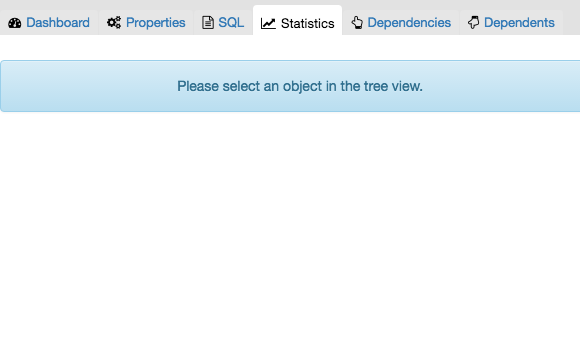
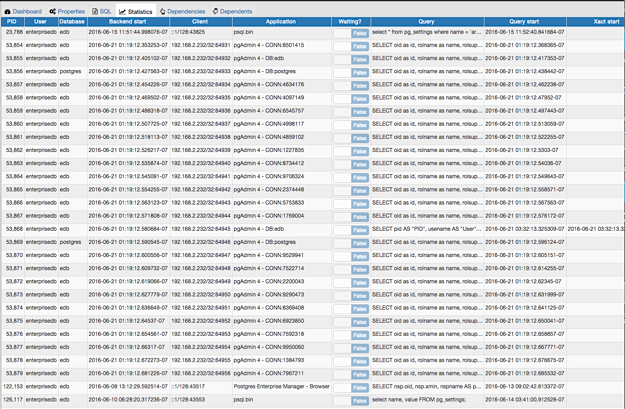
More doc restructuring.

diff --git a/docs/en_US/pgadmin_tabbed_browser.rst b/docs/en_US/pgadmin_tabbed_browser.rst
@@ -17,20 +17,50 @@ The *Dashboard* tab provides a graphical analysis of the usage statistics for th
 * The *Tuples In* graph displays the number of tuples inserted, updated, and deleted into the managed server or database.
 * The *Tuples out* graph displays the number of tuples fetched and returned into the managed server or database.
 * The *Block I/O* graph displays the number of transactions processed by the managed server or database.
-* The *Server activity* graph displays information about sessions, locks, prepared transactions and configuration. The information is presented in context-sensitive tables.
+
+The *Server activity* panel displays information about sessions, locks, prepared transactions and configuration. The information is presented in context-sensitive tables.
+
+Click the *Properties* tab to continue.
+
+.. image:: images/main_properties_table.png
+
+Review properties on expandable windows specific to the *Object* selected. If multiple boxes are displayed, you can click the arrow to the left on the blue bar at the top of each box:
+
+ * Point the arrow to the right to contract the box.
+ * Point the arrow down to expand the window. 
+
+.. image:: images/main_properties_edit.png 
+
+Click the *Edit* icon in the toolbar under the browser tabs to launch a dialog. 
+
+.. image:: images/main_properties_icons.png
+
+If you change properties in the opened dialog, save your work. The *Properties* tab updates to show recent modifications. 
+
+Click the *SQL* tab to continue.
+
+.. image:: images/main_sql.png
+
+The SQL pane on the *SQL* tab contains an SQL script that creates the highlighted object, and if applicable, a (commented out) SQL statement that will *DROP* the selected object. You can copy the SQL statements to an editor of your choice using cut & paste shortcuts.
 
 Click the *Statistics* tab to continue.
 
 .. image:: images/main_statistics.png
 
-The *Statistics* tab displays the statistics gathered for each database on the current server. Click a column heading to sort the table by the data displayed in the column; click again to reverse the sort order.  
+The *Statistics* tab displays the statistics gathered for each object on the tree control; the statistics displayed in the table vary by the type of object that is selected. Click a column heading to sort the table by the data displayed in the column; click again to reverse the sort order.  The following table lists some of the statistics that are available:  
 
 +----------------------------+------------------------------------------------------------------------------------------------------------+
 | Panel                      | Description                                                                                                |
 +============================+============================================================================================================+
+| *PID*                      | The process ID associated with the row.                                                                    |
++----------------------------+------------------------------------------------------------------------------------------------------------+
+| *User*                     | The name of the user that owns the object.                                                                 |
++----------------------------+------------------------------------------------------------------------------------------------------------+
 | *Database*                 | displays the database name.                                                                                |
 +----------------------------+------------------------------------------------------------------------------------------------------------+
 | *Backends*                 | displays the number of current connections to the database.                                                |
++----------------------------+------------------------------------------------------------------------------------------------------------+
+| *Backend start*            | The start time of the backend process.                                                                     |
 +----------------------------+------------------------------------------------------------------------------------------------------------+
 | *Xact Committed*           | displays the number of transactions committed to the database within the last week.                        |
 +----------------------------+------------------------------------------------------------------------------------------------------------+
@@ -72,36 +102,6 @@ The *Statistics* tab displays the statistics gathered for each database on the c
 +----------------------------+------------------------------------------------------------------------------------------------------------+
 | *Size*                     | displays the size (in megabytes) of the selected database.                                                 |
 +----------------------------+------------------------------------------------------------------------------------------------------------+
-
-
-Click the *Properties* tab to continue.
-
-.. image:: images/main_properties_table.png
-
-Review properties on expandable windows specific to the *Object* selected. If multiple boxes are displayed, you can click the arrow to the left on the blue bar at the top of each box:
-
- * Point the arrow to the right to contract the box.
- * Point the arrow down to expand the window. 
-
-.. image:: images/main_properties_edit.png 
-
-Click the *Edit* icon in the toolbar under the browser tabs to launch a dialog. 
-
-.. image:: images/main_properties_icons.png
-
-If you change properties in the opened dialog, save your work. The *Properties* tab updates to show recent modifications. 
-
-Click the *SQL* tab to continue.
-
-.. image:: images/main_sql.png
-
-The SQL pane on the *SQL* tab contains an SQL script that creates the highlighted object, and if applicable, a (commented out) SQL statement that will *DROP* the selected object. You can copy the SQL statements to an editor of your choice using cut & paste shortcuts.
-
-Click the *Statistics* tab to continue.
-
-.. image:: images/main_statistics.png  
-
-The *Statistics* tab displays available statistical information about the object currently selected in the *pgAdmin* browser.
 
 Click the *Dependencies* tab to continue.
 

diff --git a/docs/en_US/getting_started.rst b/docs/en_US/getting_started.rst
@@ -4,7 +4,15 @@
 Getting Started
 ***************
 
-When you install pgAdmin in server mode, you will be prompted to provide a role name and pgAdmin password.  The first role registered with pgAdmin will be an administrative user.  When you authenticate with pgAdmin, pgAdmin displays the server definitions associated with that login role in the tree control. 
+pgAdmin 4 features a highly-customizable display that features drag-and-drop panels that you can arrange to make the best use of your desktop environment.  
+
+When you install pgAdmin in server mode, you will be prompted to provide a role name and pgAdmin password.  The first role registered with pgAdmin will be an administrative user.  When you authenticate with pgAdmin, pgAdmin displays the server definitions associated with that login role in the tree control. The tree control provides an elegant overview of the managed servers, and the objects that reside on each server. Right-click on a node within the tree control to access context-sensitive menus that provide quick access to management tasks for the selected object.
+
+The tabbed browser provide quick access to statistical information about each object in the tree control, and pgAdmin tools and utilities (such as the Query tool and the debugger). pgAdmin opens additional feature tabs each time you access the extended functionality offered by pgAdmin tools; you can open, close, and re-arrange feature tabs as needed. 
+
+Use the *Preferences* dialog to customize the content and colors of the pgAdmin display.  To open the *Preferences* dialog, select *Preferences* from the *File* menu.
+
+*Help* buttons in the lower-left corner of each dialog will open the online help for the dialog.  You can access additional Postgres help by navigating through the *Help* menu, and selecting the name of the resource that you wish to open. 
 
 An administrative role can use the pgAdmin User Management dialog to create and manage additional pgAdmin user accounts.
 
@@ -13,4 +21,10 @@ Contents:
 .. toctree::
 
    pgadmin_login
+   browser
+   pgadmin_menu_bar
+   pgadmin_tabbed_browser
+   pgadmin_tree_control
+   preferences
    pgadmin_user
+

diff --git a/docs/en_US/index.rst b/docs/en_US/index.rst
@@ -13,7 +13,6 @@ Contents:
 .. toctree::
 
    getting_started
-   client_features
    connecting
    managing_cluster_objects
    managing_database_objects
